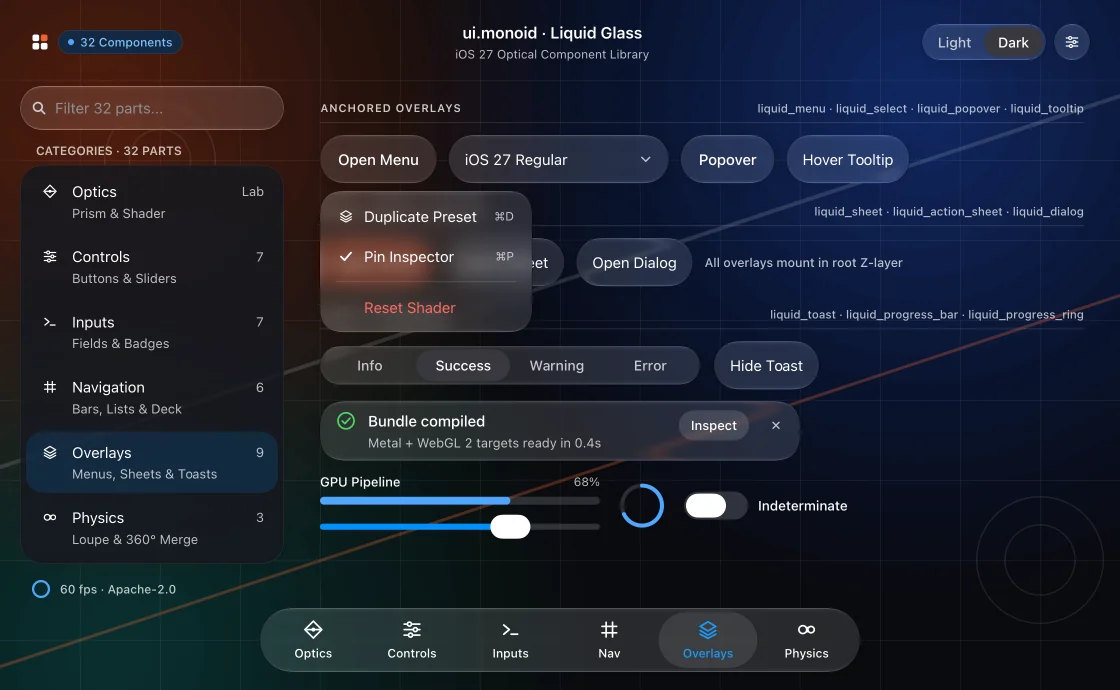
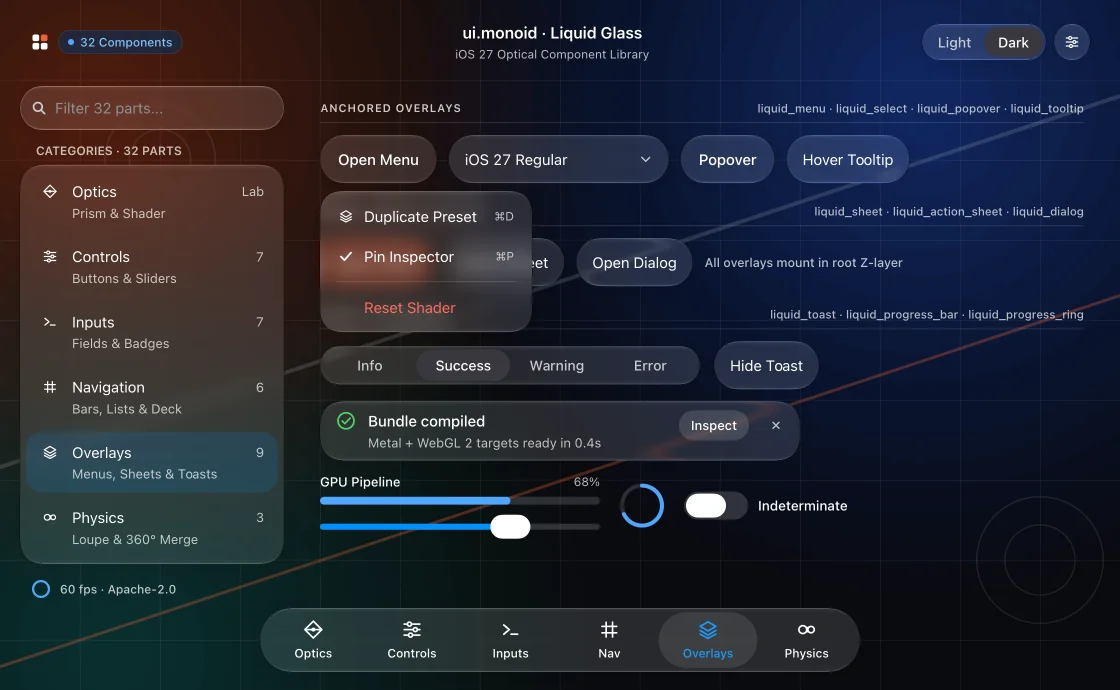
fix(liquid-glass,website): restore single-layer translucent Glass::liquid on list, disclosure and inspector panels

Changed region(s): [[0.0, 0.213, 0.25, 0.8217]]

diff --git a/libs/liquid-glass/DESIGN.md b/libs/liquid-glass/DESIGN.md
@@ -4,30 +4,26 @@ This specification defines the visual and architectural laws for `libs/liquid-gl
 
 ---
 
-## Law 1 — Strict Two-Layer Material Architecture
+## Law 1 — Strict Single-Layer Liquid Glass Architecture
 
-Liquid Glass is a **floating functional material**, never a wallpaper or a content container. The interface is strictly divided into two layers:
+Liquid Glass is a **single-layer translucent functional material** — never an opaque solid block, and never glass stacked on top of glass. The interface is strictly divided into two roles:
 
-### 1. Content Layer (Zero `Glass::liquid`)
-Carries information, lists, forms, badges, inspector panels, and any control placed *inside* a floating glass container (Sheet, Dialog, Popover, Menu, Toolbar, Card).
+### 1. Single-Layer Translucent `Glass::liquid` Surfaces
+Standalone floating controls, navigation islands, overlays, and surface containers render **one** layer of `@paint.Glass::liquid` with high-contrast opaque `solid` fallback so backdrops and colour fields refract cleanly underneath:
 
-- **Material**: Calm, legible translucent or solid surface (`.ground(...)` + `0.5pt` hairline `.edge(...)` + restrained soft shadow). Never uses `.glass(Glass::liquid)`.
-- **Components in this layer**:
-  - Containers: `liquid_list_node`, `liquid_disclosure_node`, parameter/telemetry inspector panels (`OPTICAL PARAMETERS`, `ADAPTIVE LUMINANCE`, `CAPILLARY HYSTERESIS`).
-  - Form & selection controls: `liquid_checkbox_node`, `liquid_radio_group_node`, `liquid_progress_bar_node`, `liquid_progress_ring_node`.
-  - Semantic metadata: `liquid_badge_node`, `liquid_count_badge_node`.
-  - Inner glass-surface actions: `liquid_button_node(..., flat=true)`, `liquid_control_item_node`, dialog/sheet/menu/action-sheet rows and close buttons.
-- **Why**: Keeps text razor-sharp, hierarchy calm, and guarantees that placing badges, checkboxes, or buttons inside lists, toolbars, or sheets never causes double-refraction muddiness.
+- **Standalone surface containers** (single-layer `Glass::liquid` shell; **all children inside must be flat non-glass**):
+  - `liquid_list_node`, `liquid_disclosure_node`, `liquid_toolbar_node`, `liquid_card_node`, `liquid_control_tile_node`, `liquid_menu_node`, `liquid_select_node`, `liquid_popover_node`, `liquid_tooltip_node`, `liquid_sheet_node`, `liquid_action_sheet_node`, `liquid_dialog_node`, `liquid_toast_node`, and parameter/telemetry inspector panels (`OPTICAL PARAMETERS`, `CAPILLARY HYSTERESIS`).
+- **Floating-island navigation chrome**:
+  - `liquid_nav_bar_node` is transparent layout chrome by default (`glass=false`) so `leading` and `trailing` slots host floating single-layer Liquid Glass islands (`liquid_icon_button_node`, `liquid_segmented_node`, `liquid_button_group_node`) without glass-on-glass nesting. Pass `glass=true` only when the bar contains zero inner glass controls.
+- **Standalone floating controls & optical physics**:
+  - `liquid_button_node` (`flat=false`), `liquid_icon_button_node`, `liquid_button_group_node`, `liquid_segmented_node`, `liquid_stepper_node`, `liquid_chip_node`, `liquid_text_field_node`, `liquid_search_bar_node`, `liquid_bottom_tabs_node`, `liquid_toggle_node` (lens on press), `liquid_slider_node` (lens on press), `liquid_adaptive_surface_node`, `liquid_magnifier_node`, `liquid_progressive_blur_node`, `liquid_merge_node`.
 
-### 2. Floating Liquid Glass Layer (Single-Layer `Glass::liquid`)
-Floats *above* the Content Layer and backdrop wallpaper to refract real colour fields and calibration lines underneath.
+### 2. Flat Translucent Inner / Content Elements (Zero `Glass::liquid`)
+Every element placed *inside* a glass container (or alongside glass chrome) uses crisp, airy translucent ink fills (`.ground(...)` + subtle `0.5pt` hairline `.edge(...)`) — never a second layer of `Glass::liquid`:
 
-- **Material**: Single-layer `@paint.Glass::liquid` with high-contrast opaque `solid` fallback.
-- **Components in this layer**:
-  - Navigation & floating chrome: `liquid_nav_bar_node` (transparent layout bar hosting floating glass islands in `leading`/`trailing`, or `glass=true` only when strictly free of glass children), `liquid_toolbar_node`, `liquid_bottom_tabs_node`.
-  - Standalone controls: `liquid_button_node` (`flat=false`), `liquid_icon_button_node`, `liquid_button_group_node`, `liquid_segmented_node`, `liquid_stepper_node`, `liquid_chip_node`, `liquid_text_field_node`, `liquid_search_bar_node`, `liquid_toggle_node` (lens on press), `liquid_slider_node` (lens on press).
-  - Anchored & modal overlays: `liquid_menu_node`, `liquid_select_node`, `liquid_popover_node`, `liquid_tooltip_node`, `liquid_sheet_node`, `liquid_action_sheet_node`, `liquid_dialog_node`, `liquid_toast_node`.
-  - Optical physics & deck specimens: `liquid_card_node`, `liquid_control_tile_node`, `liquid_adaptive_surface_node`, `liquid_magnifier_node`, `liquid_progressive_blur_node`, `liquid_merge_node`.
+- **Inner glass-surface actions**: `liquid_button_node(..., flat=true)`, `liquid_control_item_node`, dialog/sheet/menu/action-sheet/list rows and close buttons.
+- **Form & metadata primitives**: `liquid_checkbox_node`, `liquid_radio_group_node`, `liquid_badge_node`, `liquid_count_badge_node`, `liquid_progress_bar_node`, `liquid_progress_ring_node`, hairlines and slider tracks.
+- **Multi-specimen staging containers**: containers that directly host child `Glass::liquid` specimens (such as `ADAPTIVE LUMINANCE` hosting two `liquid_adaptive_surface_node` lenses) use a light translucent surface rather than `Glass::liquid`.
 
 ---
 

diff --git a/libs/liquid-glass/README.md b/libs/liquid-glass/README.md
@@ -43,8 +43,8 @@ All of them live in `src/lg` (`@lg`) and are showcased live in the self-hosted `
 | `liquid_nav_bar_node` | iOS 26/27 floating-island navigation bar (transparent chrome hosting floating glass islands in `leading`/`trailing`, or optional `glass=true` when child-glass-free) with centered title/subtitle. |
 | `liquid_toolbar_node` | Floating capsule toolbar container (`r = height / 2`) for quick actions. |
 | `liquid_bottom_tabs_node`, `liquid_bottom_tab_node` | A bar of tabs with a draggable refractive lens over the chosen tab. |
-| `liquid_list_node`, `LiquidListRow` | Content-layer reactive iOS-style grouped inset list (`r=24pt`, `0.5pt` hairline edge) with `active` highlight and strict between-row hairlines. |
-| `liquid_disclosure_node` | Content-layer collapsible disclosure card (`r=22pt`, `0.5pt` hairline edge) with closed-form animated chevron. |
+| `liquid_list_node`, `LiquidListRow` | Single-layer Liquid Glass grouped inset list (`r=24pt`, optional `dividers=false` sidebar mode) with flat inner rows, `active` highlight, and hover-avoiding hairlines. |
+| `liquid_disclosure_node` | Single-layer Liquid Glass collapsible disclosure card (`r=22pt`) with closed-form animated chevron and smooth slide/fade body. |
 | `liquid_card_node`, `liquid_control_tile_node`, `liquid_control_item_node` | Control center glass tiles, cards and switches. |
 
 ### Overlays & Feedback
